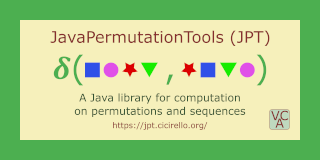
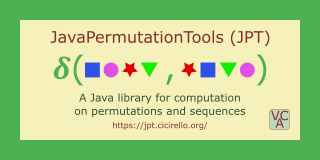
optimized images

diff --git a/docs/index.html b/docs/index.html
@@ -108,6 +108,7 @@ amp-img.contain img { object-fit: contain; }
   height="640" 
   layout="responsive"
   srcset="images/jpt.webp 1280w,
+          images/jpt960.webp 960w,
           images/jpt640.webp 640w,
 		  images/jpt320.webp 320w">
   <amp-img id="backup-logo"  
@@ -118,6 +119,7 @@ amp-img.contain img { object-fit: contain; }
     height="640" 
     layout="responsive"
     srcset="images/jpt.png 1280w,
+	        images/jpt960.png 960w,
             images/jpt640.png 640w,
 		    images/jpt320.png 320w">
   </amp-img>
